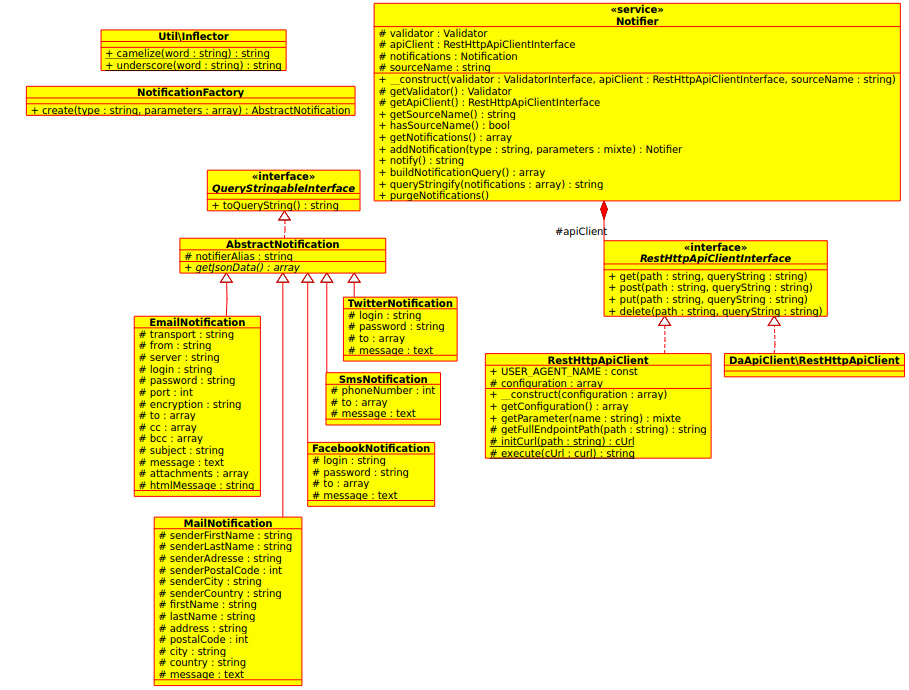
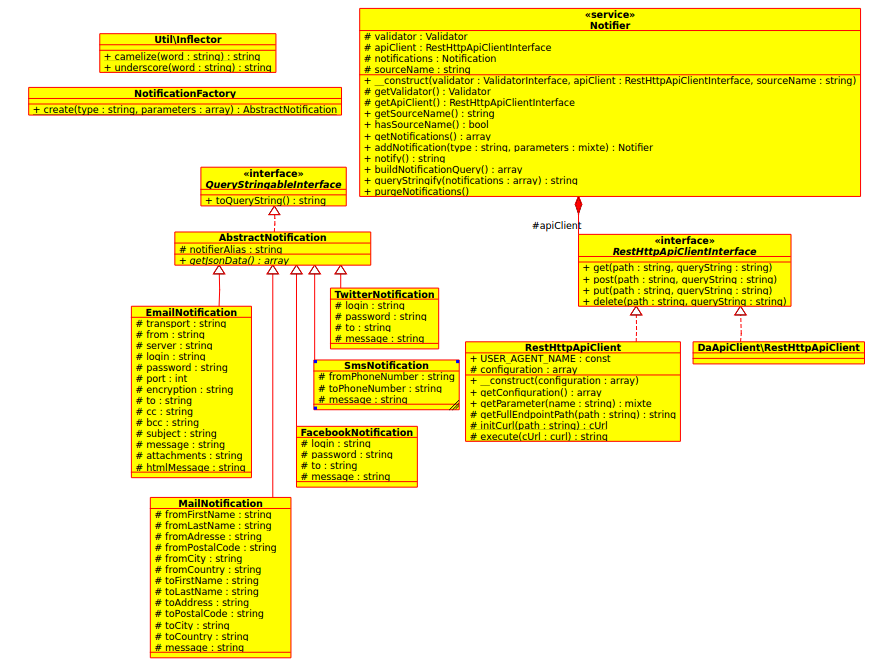
Clean up data

Changed region(s): [[0.0302, 0.0, 0.9978, 0.9955]]

diff --git a/Notification/SmsNotification.php b/Notification/SmsNotification.php
@@ -33,7 +33,7 @@ class SmsNotification extends AbstractNotification
     /**
      * SetFromPhoneNumber
      *
-     * @param  integer $phoneNumber
+     * @param  string $phoneNumber
      * @return SmsNotification
      */
     public function setFromPhoneNumber($phoneNumber)
@@ -46,7 +46,7 @@ class SmsNotification extends AbstractNotification
     /**
      * GetFromPhoneNumber
      *
-     * @return integer
+     * @return string
      */
     public function getFromPhoneNumber()
     {
@@ -56,7 +56,7 @@ class SmsNotification extends AbstractNotification
     /**
      * SetToPhoneNumber
      *
-     * @param  integer $phoneNumber
+     * @param  string $phoneNumber
      * @return SmsNotification
      */
     public function setToPhoneNumber($phoneNumber)
@@ -69,7 +69,7 @@ class SmsNotification extends AbstractNotification
     /**
      * GetToPhoneNumber
      *
-     * @return integer
+     * @return string
      */
     public function getToPhoneNumber()
     {
